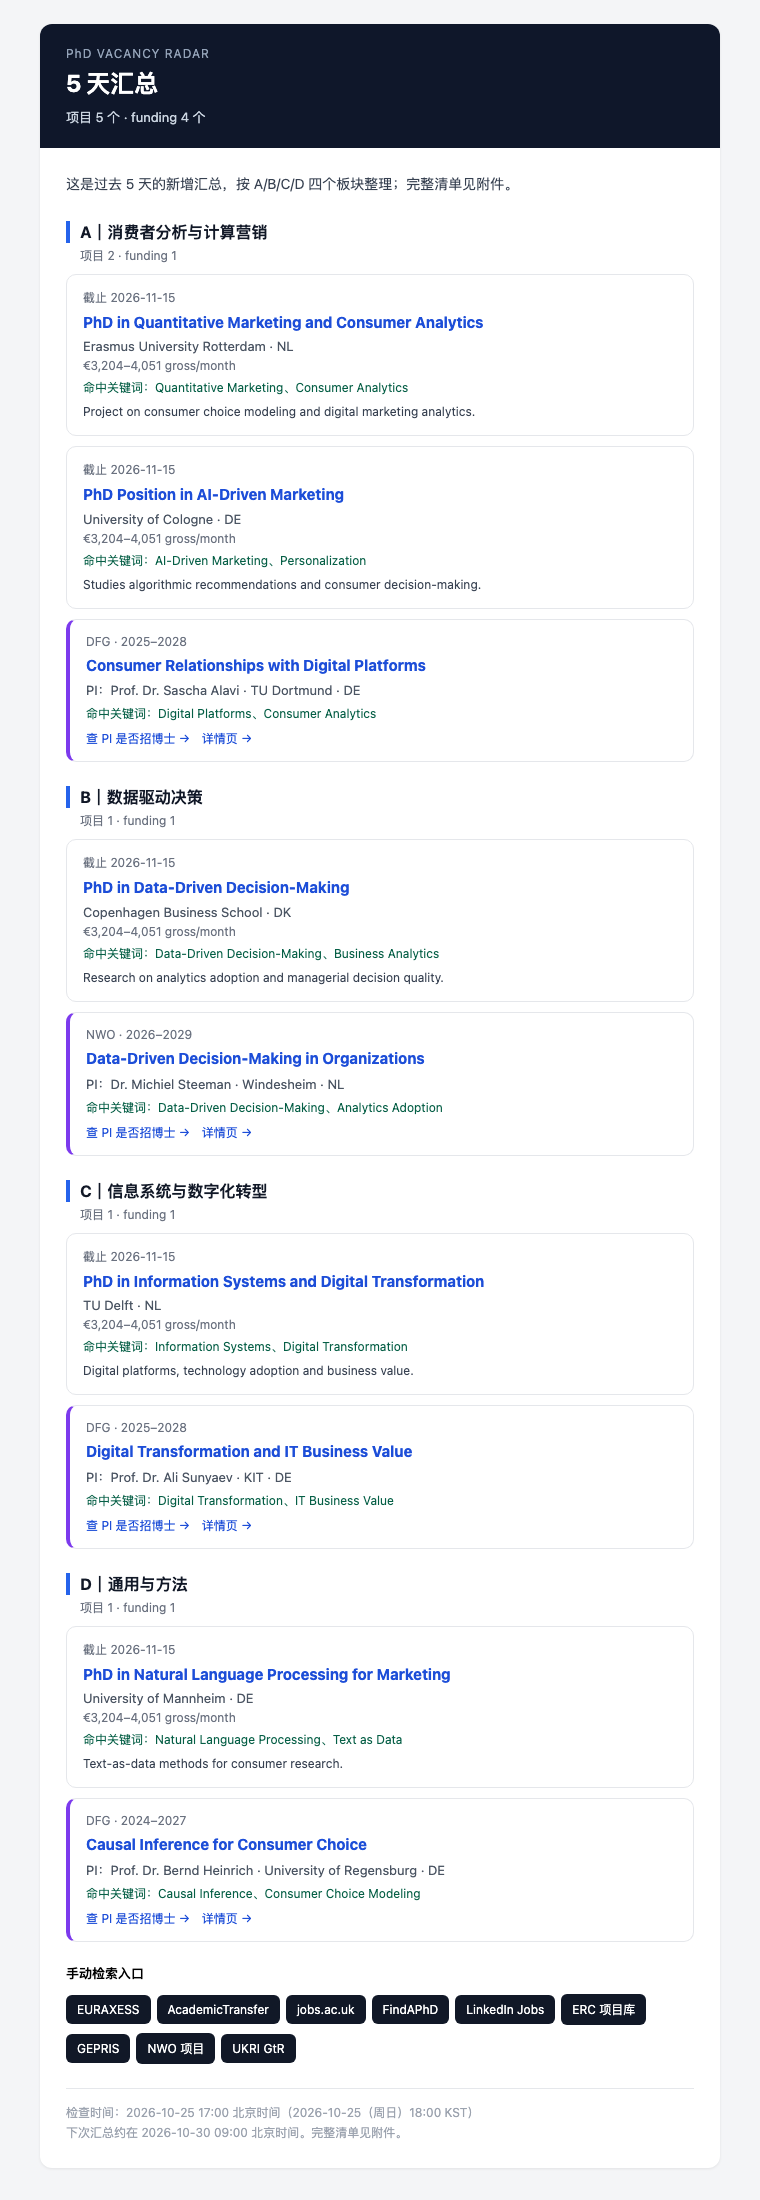
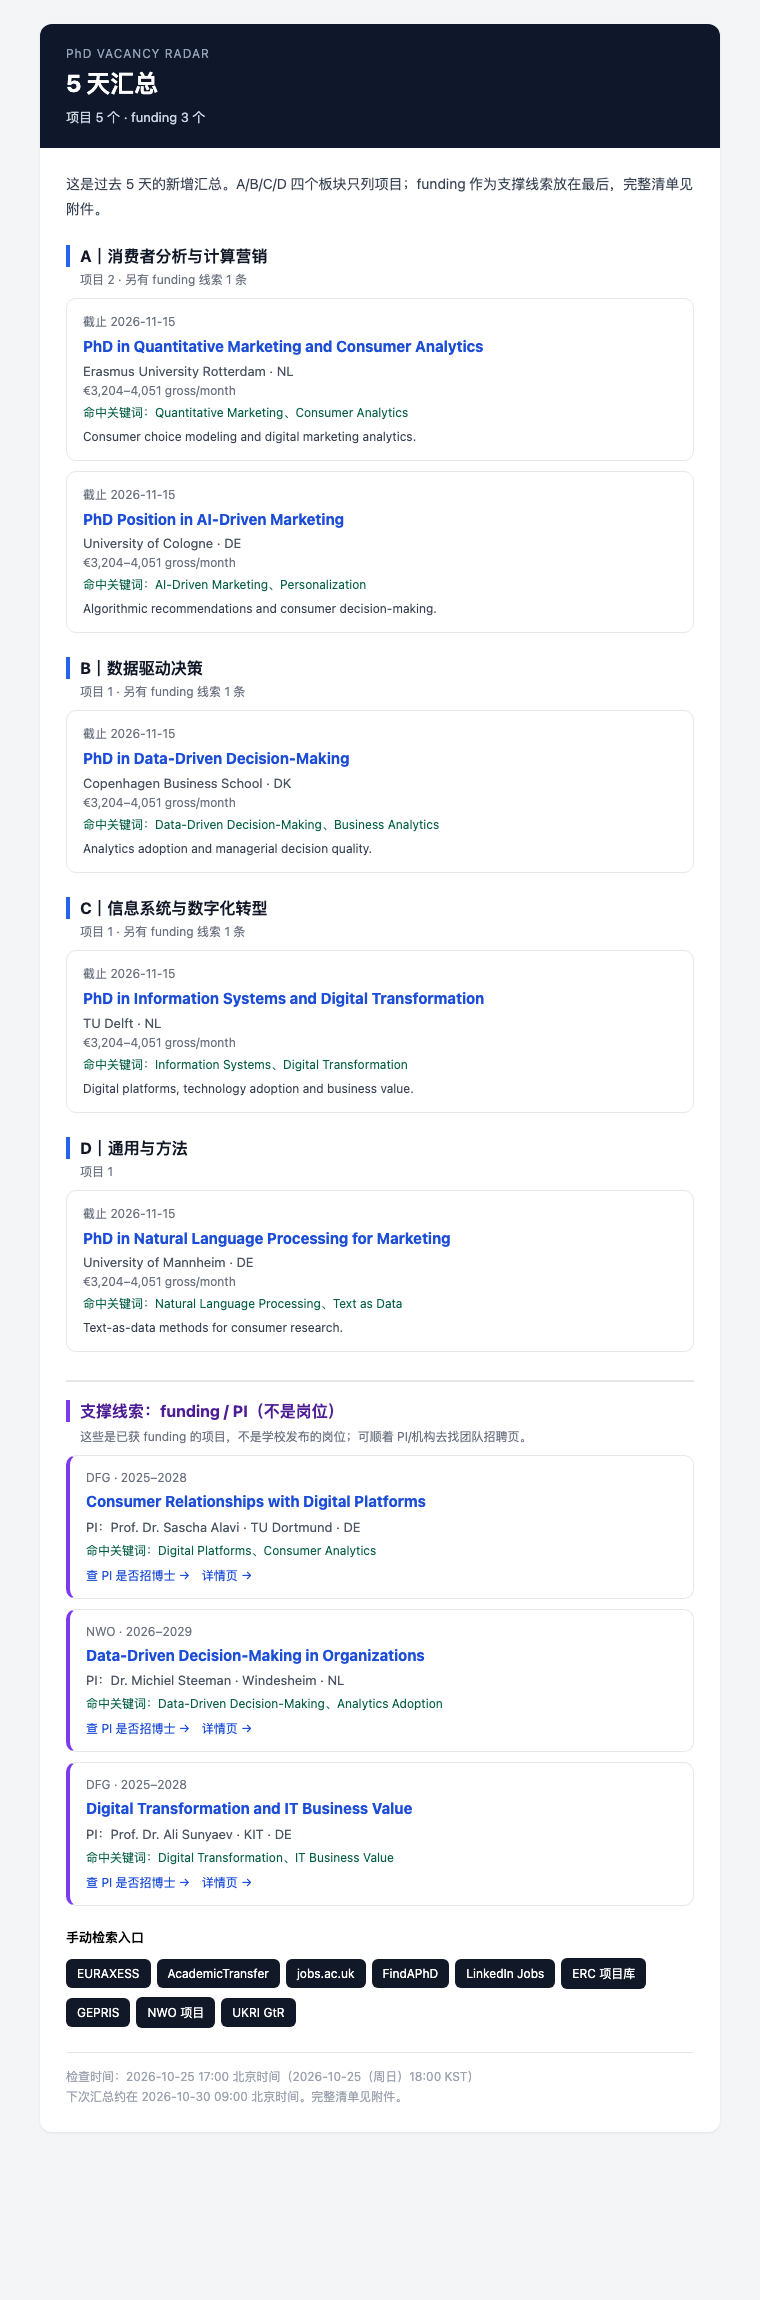
feat: positions-first digest, funding support block, add business school sources

Changed region(s): [[0.0605, 0.0, 0.9382, 0.9891], [0.575, 0.1855, 0.6053, 0.2164], [0.2421, 0.0, 0.2724, 0.0309]]

diff --git a/phd_radar/report.py b/phd_radar/report.py
@@ -122,7 +122,10 @@ def render_digest(
         intro = "过去 5 天没有发现新的匹配项目或 funding。监控仍在正常运行。"
     else:
         subject = f"[PhD Radar] 5 天汇总：{len(positions)} 个新项目，{len(awards)} 个新 funding"
-        intro = "这是过去 5 天的新增汇总，按 A/B/C/D 四个板块整理；完整清单见附件。"
+        intro = (
+            "这是过去 5 天的新增汇总。A/B/C/D 四个板块只列项目；"
+            "funding 作为支撑线索放在最后，完整清单见附件。"
+        )
 
     next_at = _next_digest(cfg, now)
     text = "\n".join(
@@ -191,21 +194,25 @@ def _section_text(
 ) -> list[str]:
     lines: list[str] = []
     for section, sec_positions, sec_awards in _groups(cfg, positions, awards):
-        lines.append(f"【{section.name}】项目 {len(sec_positions)} · funding {len(sec_awards)}")
-        if not sec_positions and not sec_awards:
-            lines.append("- 本期无新增")
-            lines.append("")
-            continue
-        for pos in sec_positions[:detail_limit]:
-            lines.extend(_pos_text(pos))
-        if len(sec_positions) > detail_limit:
-            for pos in sec_positions[detail_limit:]:
-                lines.append(f"- {pos.title}｜{pos.institution} · {pos.country}｜{pos.url}")
-        for award in sec_awards[:detail_limit]:
+        lines.append(f"【{section.name}】项目 {len(sec_positions)}")
+        if not sec_positions:
+            lines.append("- 本期无新项目")
+        else:
+            for pos in sec_positions[:detail_limit]:
+                lines.extend(_pos_text(pos))
+            if len(sec_positions) > detail_limit:
+                for pos in sec_positions[detail_limit:]:
+                    lines.append(f"- {pos.title}｜{pos.institution} · {pos.country}｜{pos.url}")
+        if sec_awards:
+            lines.append(f"  另有 {len(sec_awards)} 条相关 funding 线索，见下方「支撑线索」/附件。")
+        lines.append("")
+
+    if awards:
+        lines.append("【支撑线索：funding / PI（不是岗位，供找导师参考）】")
+        for award in awards[: cfg.monitor.funding_display_limit]:
             lines.extend(_award_text(award))
-        if len(sec_awards) > detail_limit:
-            for award in sec_awards[detail_limit:]:
-                lines.append(f"- {award.title}｜{award.pi or 'PI 未列'} · {award.institution}｜{award.url}")
+        if len(awards) > cfg.monitor.funding_display_limit:
+            lines.append(f"- 另有 {len(awards) - cfg.monitor.funding_display_limit} 条 funding 见附件 CSV。")
         lines.append("")
     return lines
 
@@ -247,6 +254,8 @@ def _wrap(
     for section, sec_positions, sec_awards in _groups(cfg, positions, awards):
         blocks.append(_section_block(section, sec_positions, sec_awards, detail_limit))
 
+    funding = _funding_block(cfg, awards)
+
     manual = ""
     if show_manual:
         manual = (
@@ -273,6 +282,7 @@ def _wrap(
   <div style="padding:24px 26px">
     <p style="margin:0 0 10px;color:#374151;font-size:14px;line-height:1.75">{_e(intro)}</p>
     {''.join(blocks)}
+    {funding}
     {manual}
     <div style="margin-top:20px;padding-top:14px;border-top:1px solid #e5e7eb;font-size:12px;color:#9ca3af;line-height:1.7">
       检查时间：{_e(human_cst(now))}（{_e(human_kst(now))}）<br>
@@ -283,15 +293,41 @@ def _wrap(
 </body></html>"""
 
 
-def _section_block(section: Section, positions: list[Position], awards: list[Award], detail_limit: int) -> str:
-    count = f"项目 {len(positions)} · funding {len(awards)}"
-    if not positions and not awards:
-        body = '<div style="color:#9ca3af;font-size:13px;padding:6px 0">本期无新增</div>'
+def _funding_block(cfg: Config, awards: list[Award]) -> str:
+    if not awards:
+        return ""
+    limit = cfg.monitor.funding_display_limit
+    cards = "".join(_award_card(a) for a in awards[:limit])
+    note = ""
+    if len(awards) > limit:
+        note = (
+            f'<div style="color:#6b7280;font-size:12px;margin-top:8px">'
+            f"另有 {len(awards) - limit} 条 funding 见附件 CSV。</div>"
+        )
+    return (
+        '<div style="margin-top:28px;padding-top:18px;border-top:2px solid #e5e7eb">'
+        '<div style="font-size:16px;font-weight:700;color:#4c1d95;border-left:4px solid #7c3aed;padding-left:10px">'
+        "支撑线索：funding / PI（不是岗位）</div>"
+        '<div style="font-size:12px;color:#6b7280;margin:6px 0 4px 14px">'
+        "这些是已获 funding 的项目，不是学校发布的岗位；可顺着 PI/机构去找团队招聘页。</div>"
+        f"{cards}{note}</div>"
+    )
+
+
+def _section_block(
+    section: Section,
+    positions: list[Position],
+    awards: list[Award],
+    detail_limit: int,
+) -> str:
+    count = f"项目 {len(positions)}"
+    if awards:
+        count += f" · 另有 funding 线索 {len(awards)} 条"
+    if not positions:
+        body = '<div style="color:#9ca3af;font-size:13px;padding:6px 0">本期无新项目</div>'
     else:
         body = "".join(_pos_card(p) for p in positions[:detail_limit])
         body += _compact_positions(positions[detail_limit:])
-        body += "".join(_award_card(a) for a in awards[:detail_limit])
-        body += _compact_awards(awards[detail_limit:])
     return (
         '<div style="margin-top:24px">'
         f'<div style="font-size:16px;font-weight:700;color:#111827;border-left:4px solid #2563eb;padding-left:10px">'
@@ -396,9 +432,11 @@ CSV_HEADER = [
 
 def _ordered_rows(cfg: Config, positions: list[Position], awards: list[Award]):
     rows = []
-    for section, sec_positions, sec_awards in _groups(cfg, positions, awards):
+    groups = _groups(cfg, positions, awards)
+    for section, sec_positions, _ in groups:
         for pos in sec_positions:
             rows.append(("position", section, pos))
+    for section, _, sec_awards in groups:
         for award in sec_awards:
             rows.append(("award", section, award))
     return rows
@@ -430,7 +468,8 @@ def build_csv(cfg: Config, positions: list[Position], awards: list[Award]) -> by
 
 def build_full_html(cfg: Config, positions: list[Position], awards: list[Award], now: datetime) -> bytes:
     blocks = []
-    for section, sec_positions, sec_awards in _groups(cfg, positions, awards):
+    groups = _groups(cfg, positions, awards)
+    for section, sec_positions, _ in groups:
         rows = []
         for pos in sec_positions:
             rows.append(
@@ -441,21 +480,30 @@ def build_full_html(cfg: Config, positions: list[Position], awards: list[Award],
                 f"<td>{_e(pos.salary)}</td><td>{_e(' / '.join(pos.keywords))}</td>"
                 "</tr>"
             )
-        for award in sec_awards:
-            rows.append(
-                "<tr>"
-                f"<td>funding</td><td><a href='{_e(award.url)}'>{_e(award.title)}</a></td>"
-                f"<td>{_e(award.institution)}</td><td>{_e(award.country)}</td>"
-                f"<td>{_e(award.programme)}</td><td>{_e(award.pi)}</td>"
-                f"<td>{_e(' / '.join(award.keywords))}</td>"
-                "</tr>"
-            )
-        body = "".join(rows) or '<tr><td colspan="7" style="color:#9ca3af">本期无新增</td></tr>'
+        body = "".join(rows) or '<tr><td colspan="7" style="color:#9ca3af">本期无新项目</td></tr>'
         blocks.append(
-            f"<h2>{_e(section.name)} <small style='color:#6b7280'>项目 {len(sec_positions)} · funding {len(sec_awards)}</small></h2>"
-            "<table><thead><tr><th>类型</th><th>标题</th><th>机构</th><th>国家</th><th>截止/计划</th><th>薪资/PI</th><th>命中关键词</th></tr></thead>"
+            f"<h2>{_e(section.name)} <small style='color:#6b7280'>项目 {len(sec_positions)}</small></h2>"
+            "<table><thead><tr><th>类型</th><th>标题</th><th>机构</th><th>国家</th><th>截止</th><th>薪资</th><th>命中关键词</th></tr></thead>"
             f"<tbody>{body}</tbody></table>"
         )
+
+    award_rows = []
+    for section, _, sec_awards in groups:
+        for award in sec_awards:
+            award_rows.append(
+                "<tr>"
+                f"<td>{_e(section.name)}</td><td><a href='{_e(award.url)}'>{_e(award.title)}</a></td>"
+                f"<td>{_e(award.pi)}</td><td>{_e(award.institution)}</td>"
+                f"<td>{_e(award.programme)}</td><td>{_e(' / '.join(award.keywords))}</td>"
+                "</tr>"
+            )
+    funding_body = "".join(award_rows) or '<tr><td colspan="6" style="color:#9ca3af">本期无新增</td></tr>'
+    blocks.append(
+        "<h2>支撑线索：funding / PI（不是岗位）</h2>"
+        "<table><thead><tr><th>板块</th><th>项目</th><th>PI</th><th>机构</th><th>计划</th><th>命中关键词</th></tr></thead>"
+        f"<tbody>{funding_body}</tbody></table>"
+    )
+
     html = f"""<!doctype html><html lang="zh-CN"><head><meta charset="utf-8">
 <title>PhD Radar 完整清单 {now:%Y-%m-%d}</title>
 <style>

diff --git a/phd_radar/sources/uni_page.py b/phd_radar/sources/uni_page.py
@@ -39,13 +39,14 @@ class UniPageSource(BaseSource):
             href = anchor.get("href", "")
             if href_contains and href_contains not in href:
                 continue
-            title = strip_html(anchor.get_text(" ", strip=True))
+            raw_title = strip_html(anchor.get_text(" ", strip=True))
+            title = _clean_title(raw_title)
             lowered = title.lower()
-            if not title or "postdoc" in lowered:
+            if not title or "postdoc" in lowered or "post-doc" in lowered or "postdoctoraal" in lowered:
                 continue
             if not any(keyword in lowered for keyword in keywords):
                 continue
-            if len(title) < 12 or len(title) > 220:
+            if len(title) < 12:
                 continue
 
             absolute = urljoin(url, href)
@@ -77,6 +78,17 @@ class UniPageSource(BaseSource):
             )
 
         return self.result(positions=positions)
+
+
+def _clean_title(text: str) -> str:
+    text = re.sub(r"^(about the position|vacature|promovendus|phd candidate)\s+", "", text, flags=re.I)
+    text = re.sub(r"^phd\s+(?=phd\b)", "", text, flags=re.I)
+    text = re.sub(r"\s+", " ", text)
+    for marker in (" Faculty of", " Closes on", " €", " Salary", " The University", " We are", " This position"):
+        index = text.find(marker)
+        if index > 10:
+            text = text[:index]
+    return text[:180].strip()
 
 
 def _deadline(text: str):

diff --git a/phd_radar/config.py b/phd_radar/config.py
@@ -39,6 +39,8 @@ class Monitor:
     digest_max_items: int = 150
     digest_detail_items: int = 8
     digest_attachment: str = "csv"  # csv | html | both | none
+    funding_per_section_limit: int = 3
+    funding_display_limit: int = 10
     startup_email: bool = True
     state_file: str = "state.json"
     failure_alert_after_hours: int = 12
@@ -139,6 +141,8 @@ def load_config(path: str | Path = "config.toml") -> Config:
         digest_max_items=int(monitor_raw.get("digest_max_items", 150)),
         digest_detail_items=int(monitor_raw.get("digest_detail_items", 8)),
         digest_attachment=str(monitor_raw.get("digest_attachment", "csv")).lower(),
+        funding_per_section_limit=int(monitor_raw.get("funding_per_section_limit", 3)),
+        funding_display_limit=int(monitor_raw.get("funding_display_limit", 10)),
         startup_email=bool(monitor_raw.get("startup_email", True)),
         state_file=str(monitor_raw.get("state_file", "state.json")),
         failure_alert_after_hours=int(monitor_raw.get("failure_alert_after_hours", 12)),

diff --git a/phd_radar/run.py b/phd_radar/run.py
@@ -183,8 +183,9 @@ def run(args: argparse.Namespace) -> int:
         return 0
 
     # 立即告警：新项目 / 新 funding 达到阈值
+    # 直招优先：即时告警只发学校/招聘页的项目，funding 只进 5 天汇总。
     alert_positions = [p for p in new_positions if p.score >= cfg.monitor.alert_score][: cfg.monitor.max_items_per_email]
-    alert_awards = [a for a in new_awards if a.score >= cfg.monitor.award_alert_score][: cfg.monitor.max_items_per_email]
+    alert_awards: list = []
 
     digest_due = _digest_due(cfg, state, now) or args.mode == "digest"
 

diff --git a/phd_radar/textutil.py b/phd_radar/textutil.py
@@ -30,7 +30,7 @@ HTML_TAG = re.compile(r"<[^>]+>")
 def strip_html(value: str) -> str:
     if not value:
         return ""
-    text = HTML_TAG.sub(" ", value)
+    text = HTML_TAG.sub(" ", value).replace("\u00ad", "").replace("\u200b", "")
     text = (
         text.replace("&nbsp;", " ")
         .replace("&amp;", "&")
